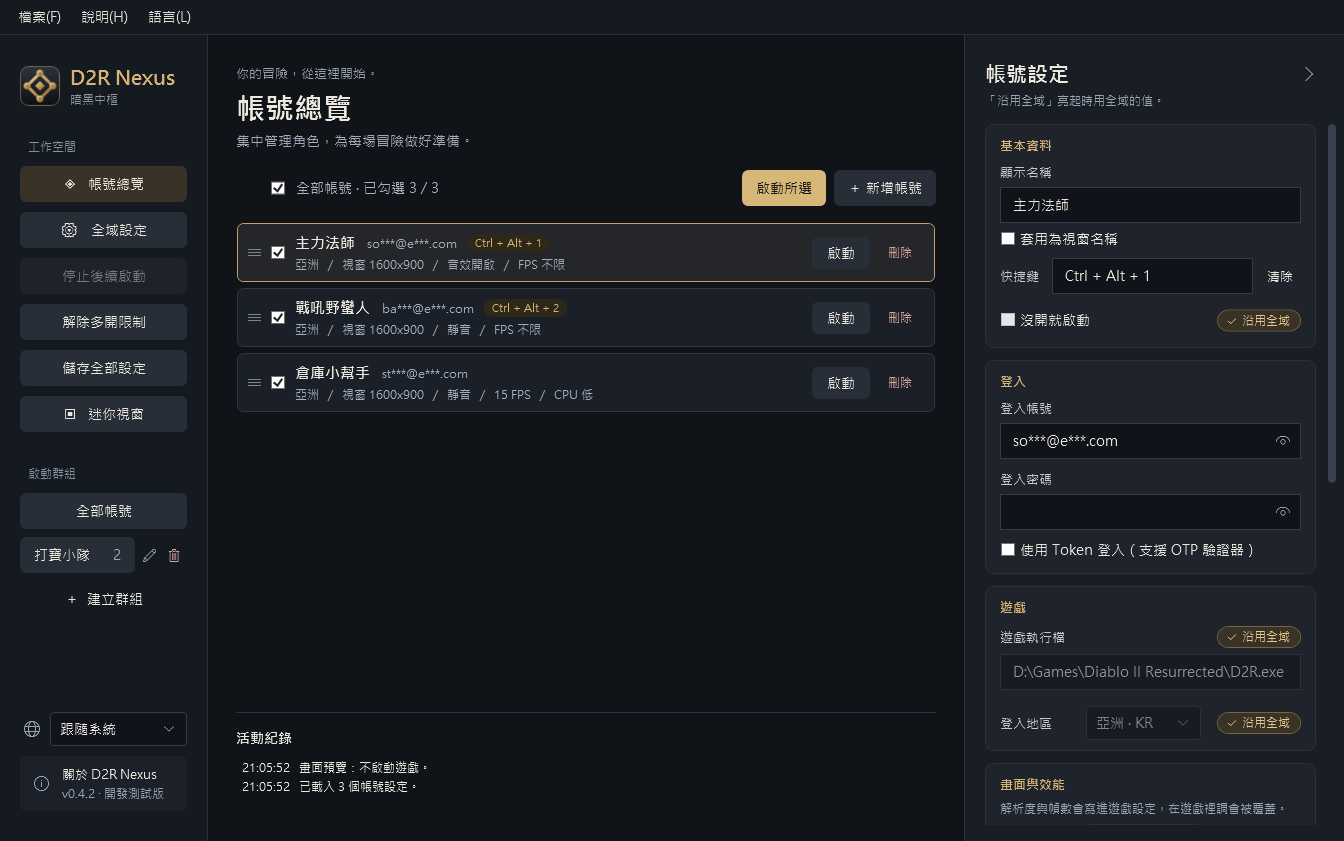
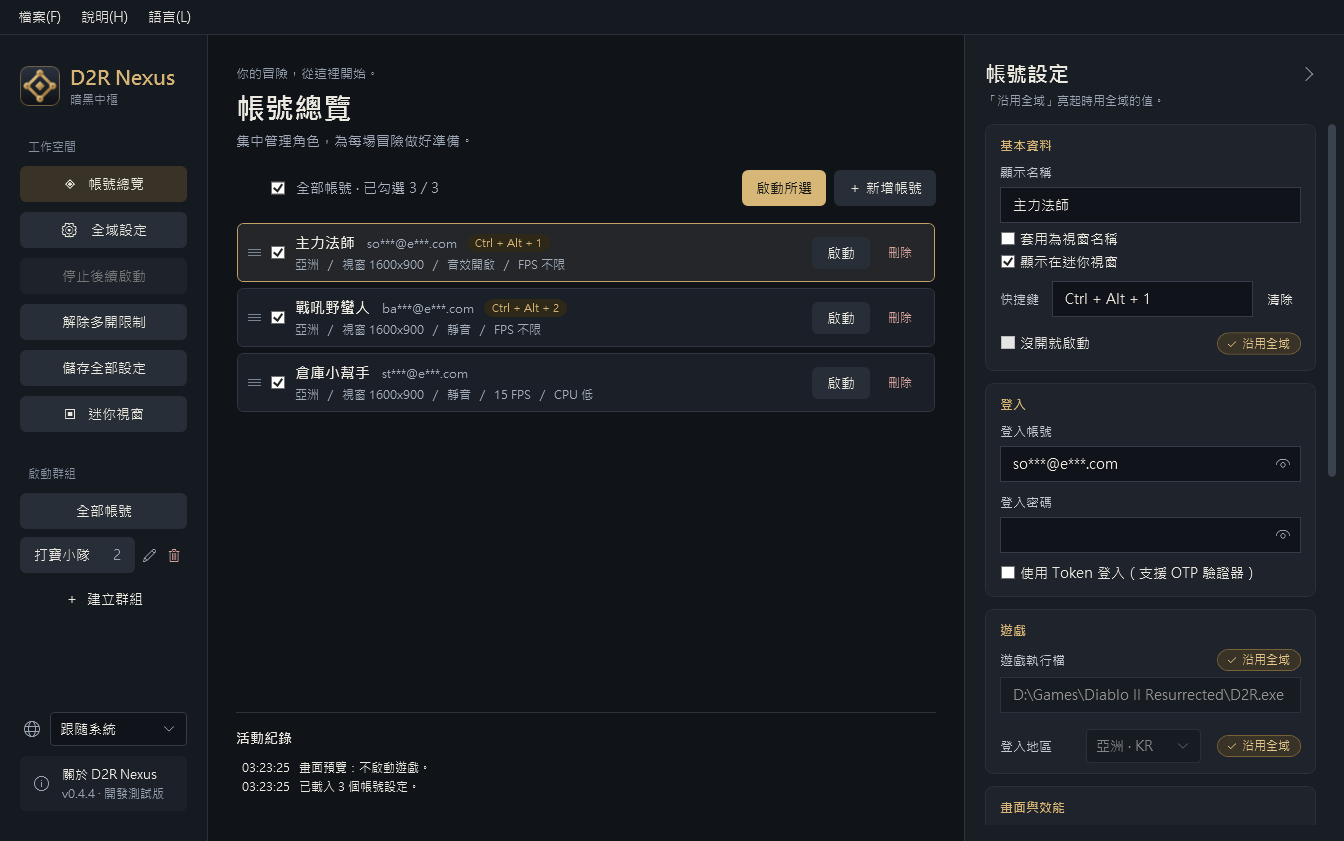
Add files via upload

diff --git a/README.en.md b/README.en.md
@@ -68,6 +68,21 @@ Drag the ≡ on the left of an account to change the launch order. A lit "Global
 
 > 💡 When running several games, lower the **Frame cap** of your background accounts and set their **CPU priority** to "Low" — your main account will run a bit smoother.
 
+### The order token accounts start in
+
+```mermaid
+flowchart LR
+    A["Press 'Launch selected'"] --> B{"How does this account sign in?"}
+    B -->|Account and password| C["The game starts and signs in by itself"]
+    C --> D["No waiting, the next one starts"]
+    B -->|Token| E["The token is written, the game starts"]
+    E --> F["It waits on 'Press any key to continue'"]
+    F --> G["You press a key, the game signs in"]
+    G --> H["The token is read, the next one starts"]
+```
+
+Windows holds only one token at a time, so two token accounts cannot start together: **until you press a key in the previous game's window, the accounts behind it keep waiting** — the activity log says which one they are waiting for and for how long. Accounts that sign in with an account and password do it by themselves and are not affected.
+
 ### Mini window
 
 While you play, shrink the main window into a small list and keep it in a corner of the screen:
@@ -75,6 +90,8 @@ While you play, shrink the main window into a small list and keep it in a corner
 ![Mini window](docs/images/mini.en.png)
 
 A green dot means the game is open (click to switch to it), a gray dot means it isn't (click to launch it), and an orange dot means the game isn't responding (right-click to close it). Next to each dot is the CPU and memory that account is using.
+
+With many accounts the list gets long: to leave one out, right-click its row and choose "Hide from this list", or untick "Show in the mini window" in the account settings. Under the list it says how many are not shown and how many of those are running; the arrow next to it opens them, and clicking one puts it back on the list. A hidden account still launches as usual and keeps its shortcut.
 
 ## 🛡 Not a cheat
 
@@ -109,11 +126,27 @@ If it still doesn't work, please report it in Issues with your login method (pas
 </details>
 
 <details>
+<summary>Asia works, but Europe or the Americas says it cannot reach the server</summary>
+
+This happens with account-and-password login; switching that account to token login fixes it. Asia is not affected.
+
+In the account settings set "Login region" to Europe or the Americas, tick "Use token login", then click "Get token" and approve it once on your phone. **A token belongs to one region**, so changing the region means getting a new one. If the token you get does not match the login region, the activity log says so.
+</details>
+
+<details>
 <summary>An account with token login can only play offline</summary>
 
 That token is no longer valid. Changing your Battle.net password, re-linking the authenticator or removing it all invalidate it.
 
 In the account settings, next to "Login token", click "Clear" and then "Get token" again, and approve it once more on your phone. For an account without an authenticator you can also uncheck "Use token login" and sign in with the account and password instead.
+</details>
+
+<details>
+<summary>An account with token login stops at "Press any key to continue"</summary>
+
+That is how the game behaves: when it starts with a token it waits on its title screen, and it only begins signing in once you **press a key in that window**. Accounts that sign in with an account and password do it by themselves.
+
+With several token accounts this step matters even more: Windows only holds one token at a time, so **the next account can only start after the previous one has signed in**. Until you press that key the accounts behind it keep waiting (the activity log says what they are waiting for and for how long). Press a key in each token account's window as it appears and the rest follow on.
 </details>
 
 <details>
@@ -144,6 +177,18 @@ The other one is the **target frame rate** of dynamic resolution scaling: the ga
 When several games are running, they all compete for the CPU. If you set your background accounts to "Low", your main account gets the CPU first and stutters a bit less.
 
 Note that it **doesn't lower CPU usage**; it only decides who goes first. If you don't run many games and your CPU isn't maxed out, you won't notice any difference, so just leave it at "Normal".
+</details>
+
+<details>
+<summary>Several games at once stutter, or too many at once will not start</summary>
+
+Nexus only starts the games; once they are running it uses no performance of its own, and the stutter comes from several games running together. For the accounts you keep in the background, set all three:
+
+1. **Frame cap** 15 or 30
+2. **CPU priority** to "Low", so the account you play gets the CPU first
+3. **Window size** to 1280x720
+
+When you start many at once and the next game crowds the one still loading, set "Delay between accounts" to 5–10 seconds under "Global settings → Launch & diagnostics".
 </details>
 
 <details>

diff --git a/README.zh-CN.md b/README.zh-CN.md
@@ -68,6 +68,21 @@
 
 > 💡 多开时，把后台账号的**帧率上限**调低、**CPU 优先级**设成“低”，主力账号会流畅一点。
 
+### Token 账号的启动顺序
+
+```mermaid
+flowchart LR
+    A["按“启动所选”"] --> B{"这个账号怎么登录？"}
+    B -->|账号密码| C["开游戏，游戏自动登录"]
+    C --> D["不用等，接着开下一个"]
+    B -->|Token| E["写入 Token，开游戏"]
+    E --> F["停在“按任意键即可开始”"]
+    F --> G["你按一下键，游戏登录"]
+    G --> H["Token 被读走，换下一个"]
+```
+
+Windows 一次只存得下一个 Token，所以两个 Token 账号不能同时开：**前一个没有在游戏窗口按键登录，后面的账号就会一直等**（活动记录会写出它在等谁、等了几秒）。用账号密码登录的账号会自己登录，不受影响。
+
 ### 迷你窗口
 
 玩的时候把主窗口收成一条小列表，放在屏幕角落：
@@ -75,6 +90,8 @@
 ![迷你窗口](docs/images/mini.zh-CN.png)
 
 绿点表示游戏开着（点一下切过去），灰点表示没开（点一下就启动），橙点表示游戏没有响应（右键可以结束它）。旁边是这个账号占用的 CPU 与内存。
+
+账号多的时候列表会很长：不想出现在这里的账号，在那一行按右键选“不要显示在这里”，或到账号设置取消勾选“显示在迷你窗口”。列表下方会写还有几个没显示、其中几个正在跑，点旁边的箭头就能展开，点一下把账号放回列表。被隐藏的账号照常启动，快捷键也照常用。
 
 ## 🛡 不是外挂
 
@@ -109,11 +126,27 @@ Nexus 只是帮你打开游戏的管理工具，**不注入程序、不读写游
 </details>
 
 <details>
+<summary>亚洲可以玩，换欧洲或美洲就说无法连上服务器</summary>
+
+用账号密码登录时会这样，那个账号改用 Token 登录就正常（板友反馈，亚洲不受影响）。
+
+到账号设置把“登录地区”改成欧洲或美洲，勾“使用 Token 登录”，再按“获取 Token”在手机上批准一次。**Token 是分地区的**，换地区要重新获取；获取的 Token 和登录地区不同时，活动记录会提醒你。
+</details>
+
+<details>
 <summary>用 Token 登录的账号，进游戏只能离线？</summary>
 
 那个 Token 失效了。改过 Battle.net 密码、重新绑定或停用验证器都会让它失效。
 
 到账号设置的“登录 Token”按“清除”，再按一次“获取 Token”，在手机上重新批准。没绑验证器的账号，也可以取消勾选“使用 Token 登录”，改用账号密码登录。
+</details>
+
+<details>
+<summary>用 Token 登录的账号，开起来停在“按任意键即可开始”</summary>
+
+这是游戏本身的行为：用 Token 启动时，游戏会先停在开场画面，**在那个窗口按任意键**才会开始登录。用账号密码登录的账号会自己登录，不用按。
+
+有多个 Token 账号时这一步更重要：Windows 一次只放得下一个 Token，**前一个账号登录之后才轮得到下一个**。所以你没去按的话，后面的账号会一直等（活动记录会写出它在等什么、等了多久）。启动后先把每个 Token 账号的窗口按一下，后面就会接着开。
 </details>
 
 <details>
@@ -144,6 +177,18 @@ Nexus 只是帮你打开游戏的管理工具，**不注入程序、不读写游
 多开时大家一起抢 CPU，把后台账号设成“低”，主力账号就会先用到 CPU，卡顿会少一点。
 
 要注意它**不会让 CPU 使用率变低**，只是决定谁先用。如果你开的数量不多、CPU 没有占满，设了也感觉不到差别，保持“正常”就好。
+</details>
+
+<details>
+<summary>多开很卡，或者一次开太多开不起来？</summary>
+
+Nexus 只负责把游戏开起来，开起来之后不会占用性能，卡顿是几个游戏一起跑造成的。后台挂着的账号三项一起设才有感觉：
+
+1. **帧率上限** 设 15 或 30
+2. **CPU 优先级** 设“低”，让主力账号先用到 CPU
+3. **窗口分辨率** 设 1280x720
+
+一次开很多个时，前一个还在读取就被下一个挤住的话，到“全局设置 → 启动与诊断”把“各账号启动间隔”调成 5～10 秒。
 </details>
 
 <details>

diff --git a/README.md b/README.md
@@ -68,6 +68,21 @@
 
 > 💡 多開時，把背景帳號的**幀數上限**調低、**CPU 優先順序**設成「低」，主力帳號會順一點。
 
+### Token 帳號的啟動順序
+
+```mermaid
+flowchart LR
+    A["按「啟動所選」"] --> B{"這個帳號怎麼登入？"}
+    B -->|帳號密碼| C["開遊戲，遊戲自動登入"]
+    C --> D["不用等，接著開下一個"]
+    B -->|Token| E["寫入 Token，開遊戲"]
+    E --> F["停在「按任意鍵即可開始」"]
+    F --> G["你按一下鍵，遊戲登入"]
+    G --> H["Token 被讀走，換下一個"]
+```
+
+Windows 一次只存得下一個 Token，所以兩個 Token 帳號不能同時開：**前一個沒有在遊戲視窗按鍵登入，後面的帳號就會一直等**（活動紀錄會寫出它在等誰、等了幾秒）。用帳號密碼登入的帳號會自己登入，不受影響。
+
 ### 迷你視窗
 
 玩的時候把主視窗收成一條小清單，放在畫面角落：
@@ -75,6 +90,8 @@
 ![迷你視窗](docs/images/mini.png)
 
 綠點代表遊戲開著（點一下切過去），灰點代表沒開（點一下就啟動），橘點代表遊戲沒有回應（右鍵可以結束它）。旁邊是那個帳號用掉的 CPU 與記憶體。
+
+帳號多的時候清單會很長：不想出現在這裡的帳號，在那一列按右鍵選「不要顯示在這裡」，或到帳號設定取消勾選「顯示在迷你視窗」。清單下方會寫還有幾個沒顯示、其中幾個正在跑，點旁邊的箭頭就能展開，點一下把帳號放回清單。被隱藏的帳號照常啟動，快捷鍵也照常用。
 
 ## 🛡 不是外掛
 
@@ -109,11 +126,27 @@ Nexus 只是幫你開遊戲的管理工具，**不注入程式、不讀寫遊戲
 </details>
 
 <details>
+<summary>亞洲可以玩，換歐洲或美洲就說無法連上伺服器</summary>
+
+用帳號密碼登入時會這樣，那個帳號改用 Token 登入就正常（板友回報，亞洲不受影響）。
+
+到帳號設定把「登入地區」改成歐洲或美洲，勾「使用 Token 登入」，再按「取得 Token」在手機核准一次。**Token 是分地區的**，換地區要重新取得；取得的 Token 和登入地區不同時，活動紀錄會提醒你。
+</details>
+
+<details>
 <summary>用 Token 登入的帳號，進遊戲只能離線？</summary>
 
 那個 Token 失效了。改過 Battle.net 密碼、重綁或停用驗證器都會讓它失效。
 
 到帳號設定的「登入 Token」按「清除」，再按一次「取得 Token」，在手機重新核准。沒綁驗證器的帳號，也可以取消勾選「使用 Token 登入」，改用帳號密碼登入。
+</details>
+
+<details>
+<summary>用 Token 登入的帳號，開起來停在「按任意鍵即可開始」</summary>
+
+這是遊戲本身的行為：用 Token 啟動時，遊戲會先停在開場畫面，**在那個視窗按任意鍵**才會開始登入。用帳號密碼登入的帳號會自己登入，不用按。
+
+有多個 Token 帳號時這一步更重要：Windows 一次只放得下一個 Token，**前一個帳號登入之後才輪得到下一個**。所以你沒去按的話，後面的帳號會一直等（活動紀錄會寫出它在等什麼、等了多久）。啟動後先把每個 Token 帳號的視窗按一下，後面就會接著開。
 </details>
 
 <details>
@@ -144,6 +177,18 @@ Nexus 只是幫你開遊戲的管理工具，**不注入程式、不讀寫遊戲
 多開時大家一起搶 CPU，把背景帳號設成「低」，主力帳號就會先用到 CPU，卡頓會少一點。
 
 要注意它**不會讓 CPU 使用率變低**，只是決定誰先用。如果你開的數量不多、CPU 沒有吃滿，設了也不會有感覺，維持「正常」就好。
+</details>
+
+<details>
+<summary>多開很卡，或是一次開太多開不起來？</summary>
+
+Nexus 只負責把遊戲開起來，開起來之後不會佔用效能，卡頓是幾個遊戲一起跑造成的。背景掛著的帳號三項一起設才有感：
+
+1. **幀數上限** 設 15 或 30
+2. **CPU 優先順序** 設「低」，讓主力帳號先用到 CPU
+3. **視窗解析度** 設 1280x720
+
+一次開很多個時，前一個還在讀取就被下一個擠住的話，到「全域設定 → 啟動與診斷」把「各帳號啟動間隔」調成 5～10 秒。
 </details>
 
 <details>

diff --git a/CHANGELOG.ko.md b/CHANGELOG.ko.md
@@ -4,6 +4,18 @@
 
 최신 버전이 맨 위에 있습니다. 다운로드는 [Releases](https://github.com/MoroseDog/D2RNexus/releases)에서 하세요.
 
+## v0.4.4 (2026-09-25)
+
+**추가**
+
+- **미니 창에 표시할 계정을 고를 수 있습니다.** 계정이 많으면 목록이 너무 길어지므로, 해당 줄에서 마우스 오른쪽 버튼을 눌러 '이 목록에서 숨기기'를 선택하거나 계정 설정에서 '미니 창에 표시'를 끄세요. 목록 아래에 표시하지 않은 계정 수와 그중 실행 중인 수가 나오고, 옆의 화살표를 누르면 펼쳐져 하나씩 또는 한 번에 모두 되돌릴 수 있습니다. 숨긴 계정도 평소처럼 실행되고 단축키도 그대로이며, 접었을 때의 두 숫자는 여전히 모든 계정을 셉니다.
+
+**개선**
+
+- **계정 간 실행 간격 기본값이 5초가 되었습니다.** 이전에는 0이라 앞 게임의 창이 뜨자마자 다음 게임을 실행했고, 계정이 많으면 모든 게임이 동시에 불러오느라 오히려 실행되지 않았습니다. 이미 저장된 설정은 원래 값을 유지하며, 계정을 네 개 넘게 선택했는데 간격이 0이면 활동 기록이 한 번 알려 줍니다.
+- **이전 토큰 계정을 기다리는 동안 아무것도 보이지 않던 문제를 고쳤습니다.** 기다리기 시작할 때와 끝났을 때 각각 기록이 남고(기다린 초 포함), 계정 줄의 상태는 '이전 계정 로그인 대기'로 바뀌며 마우스를 올리면 전체 문장을 볼 수 있습니다.
+- 설명 문서에 토큰 계정의 실행 순서 흐름도와 FAQ 세 항목을 추가했습니다. 토큰 계정이 '아무 키나 누르십시오' 화면에서 멈추는 문제, 아시아는 되지만 유럽/아메리카에서 서버에 연결되지 않는 문제, 여러 개를 켤 때 버벅이거나 실행되지 않는 문제입니다.
+
 ## v0.4.3 (2026-09-23)
 
 **수정**

diff --git a/CHANGELOG.en.md b/CHANGELOG.en.md
@@ -4,6 +4,18 @@
 
 The newest version is at the top. Download from [Releases](https://github.com/MoroseDog/D2RNexus/releases).
 
+## v0.4.4 (2026-09-25)
+
+**Added**
+
+- **You can choose which accounts the mini window shows.** With many accounts the list gets too long, so right-click a row and choose "Hide from this list", or untick "Show in the mini window" in the account settings. Under the list it says how many are not shown and how many of those are running; the arrow opens them so you can put them back one at a time, or all at once. A hidden account still launches as usual and keeps its shortcut, and the two numbers on the collapsed bar still count every account.
+
+**Improved**
+
+- **The delay between accounts now starts at 5 seconds.** It used to be 0, which started the next game the moment the previous window appeared; with several accounts all of them load at once and end up not starting at all. Settings that already exist keep their own value, and with more than four accounts ticked at a delay of 0 the activity log says so once.
+- **Waiting for the previous token account is no longer silence**: the activity log has a line when the wait starts and another when it ends with the number of seconds, the account row now says "Waiting for the previous account", and hovering it shows the whole sentence.
+- The readme gained a diagram of the order token accounts start in, and three new FAQ entries: an account with token login stops at "Press any key to continue", Asia works but Europe and the Americas cannot reach the server, and several games at once stutter or will not start.
+
 ## v0.4.3 (2026-09-23)
 
 **Fixed**

diff --git a/CHANGELOG.zh-CN.md b/CHANGELOG.zh-CN.md
@@ -4,6 +4,18 @@
 
 最新的版本在最上面。下载请到 [Releases](https://github.com/MoroseDog/D2RNexus/releases)。
 
+## v0.4.4（2026-09-25）
+
+**新增**
+
+- **迷你窗口可以选择显示哪些账号**：账号多的时候列表会太长，在那一行按右键选“不要显示在这里”，或到账号设置取消勾选“显示在迷你窗口”。列表下方会写还有几个没显示、其中几个正在跑，点旁边的箭头展开就能一个一个放回，也可以全部放回。被隐藏的账号照常启动，快捷键也照常用；收起成小条时的两个数字仍然算全部账号。
+
+**改进**
+
+- **各账号启动间隔默认改成 5 秒**。以前是 0，前一个游戏窗口一出现就开下一个，账号多的时候所有游戏的载入挤在一起，反而开不起来。已经存过设置的人保留自己的值；勾选超过四个账号而间隔还是 0 时，活动记录会提醒一次。
+- **等前一个 Token 账号登录时不再是一片空白**：开始等和等到了各写一行记录（含等了几秒），账号行的状态改成“等前一个账号按任意键登录”，鼠标移上去可以看到完整的一句话。
+- 说明页新增 Token 账号的启动流程图，以及三则常见问题：用 Token 登录的账号会停在“按任意键即可开始”、亚洲可以玩但欧洲美洲连不上服务器、多开很卡或一次开太多开不起来。
+
 ## v0.4.3（2026-09-23）
 
 **修复**

diff --git a/CHANGELOG.md b/CHANGELOG.md
@@ -4,6 +4,18 @@
 
 最新的版本在最上面。下載請到 [Releases](https://github.com/MoroseDog/D2RNexus/releases)。
 
+## v0.4.4（2026-09-25）
+
+**新增**
+
+- **迷你視窗可以選擇顯示哪些帳號**：帳號多的時候清單會太長，在那一列按右鍵選「不要顯示在這裡」，或到帳號設定取消勾選「顯示在迷你視窗」。清單下方會寫還有幾個沒顯示、其中幾個正在跑，點旁邊的箭頭展開就能一個一個放回，也可以全部放回。被隱藏的帳號照常啟動，快捷鍵也照常用；收起成小條時的兩個數字仍然算全部帳號。
+
+**改善**
+
+- **各帳號啟動間隔預設改成 5 秒**。以前是 0，前一個遊戲視窗一出現就開下一個，帳號多的時候所有遊戲的載入擠在一起，反而開不起來。已經存過設定的人保留自己的值；勾超過四個帳號而間隔還是 0 時，活動紀錄會提醒一次。
+- **等前一個 Token 帳號登入時不再是一片空白**：開始等和等到了各寫一行紀錄（含等了幾秒），帳號列的狀態改成「等前一個帳號按任意鍵登入」，滑鼠移上去可以看到完整的一句話。
+- 說明頁新增 Token 帳號的啟動流程圖，以及三則常見問題：用 Token 登入的帳號會停在「按任意鍵即可開始」、亞洲可以玩但歐洲美洲連不上伺服器、多開很卡或一次開太多開不起來。
+
 ## v0.4.3（2026-09-23）
 
 **修正**
